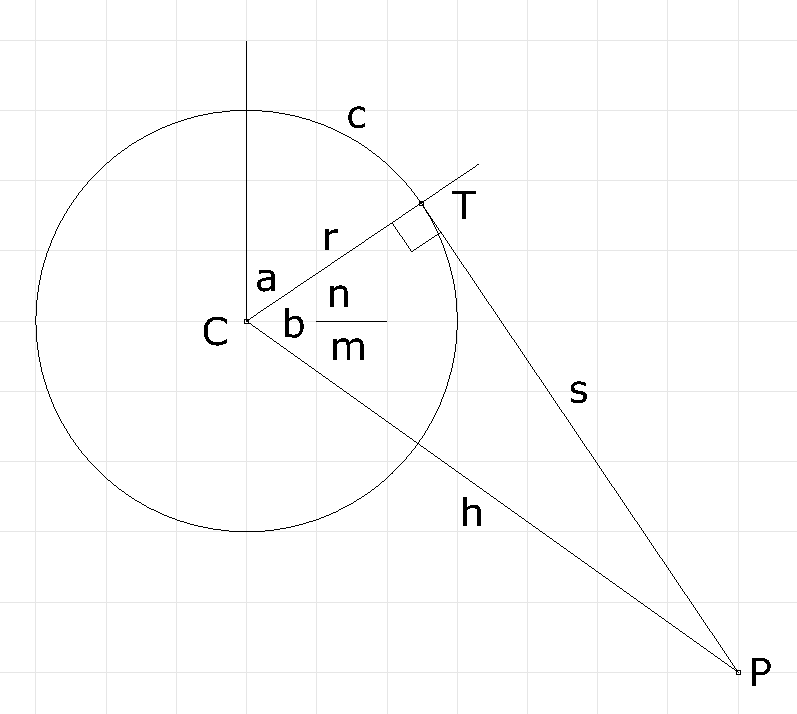
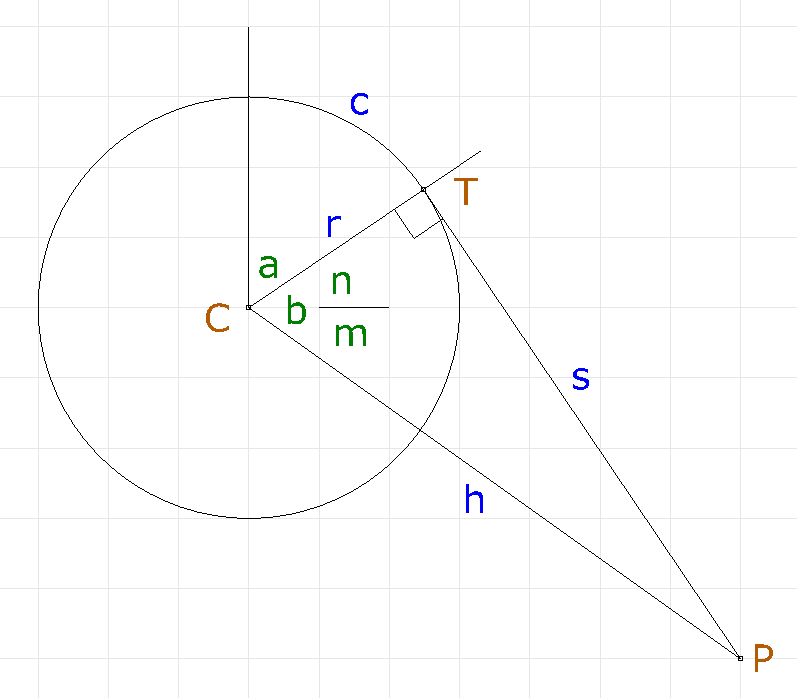
update documentation, color code values

diff --git a/readme.md b/readme.md
@@ -6,18 +6,18 @@ Python code for inverse and forward kinematics.
 
 ## Legend
 
-Points
+Points (brown)
 - `C` center of circle (spool)
 - `P` plotting point
 - `T` tangent point, line to circle
 
-Lengths
+Lengths (blue)
 - `r` radius of circle
 - `c` length of line in contact with circle
 - `s` length of line from tangent to point
 - `h` distance between plotting point and circle center
 
-Angles
+Angles (green)
 - `a` section of circle with line contact
 - `b` interior angle of right triangle
 - `n` part angle of `b` above horizontal
